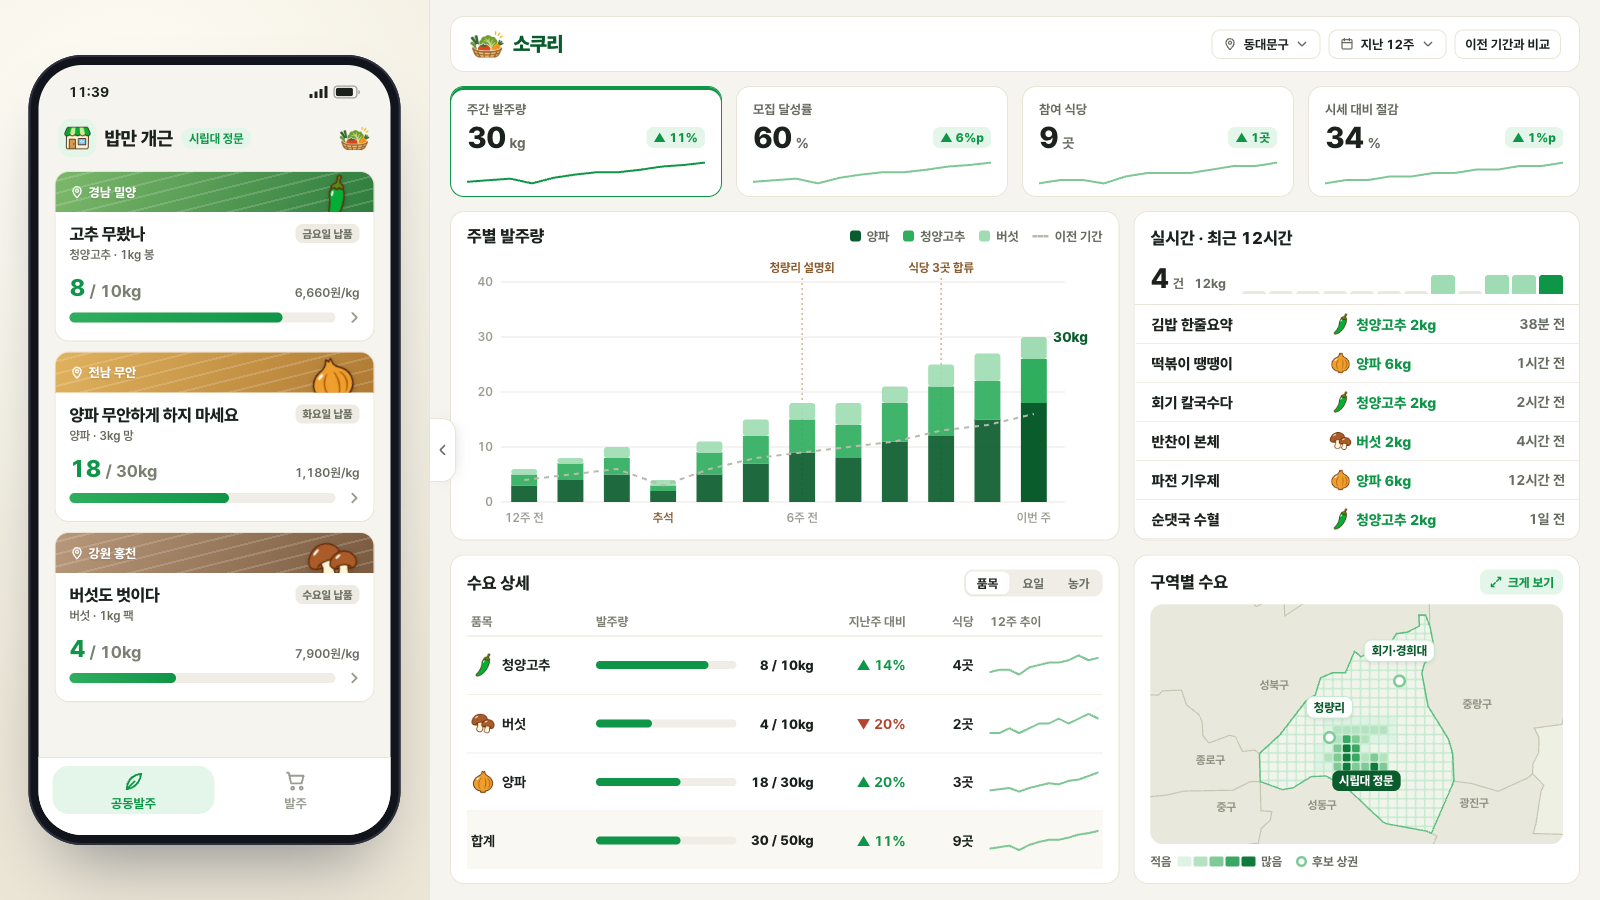
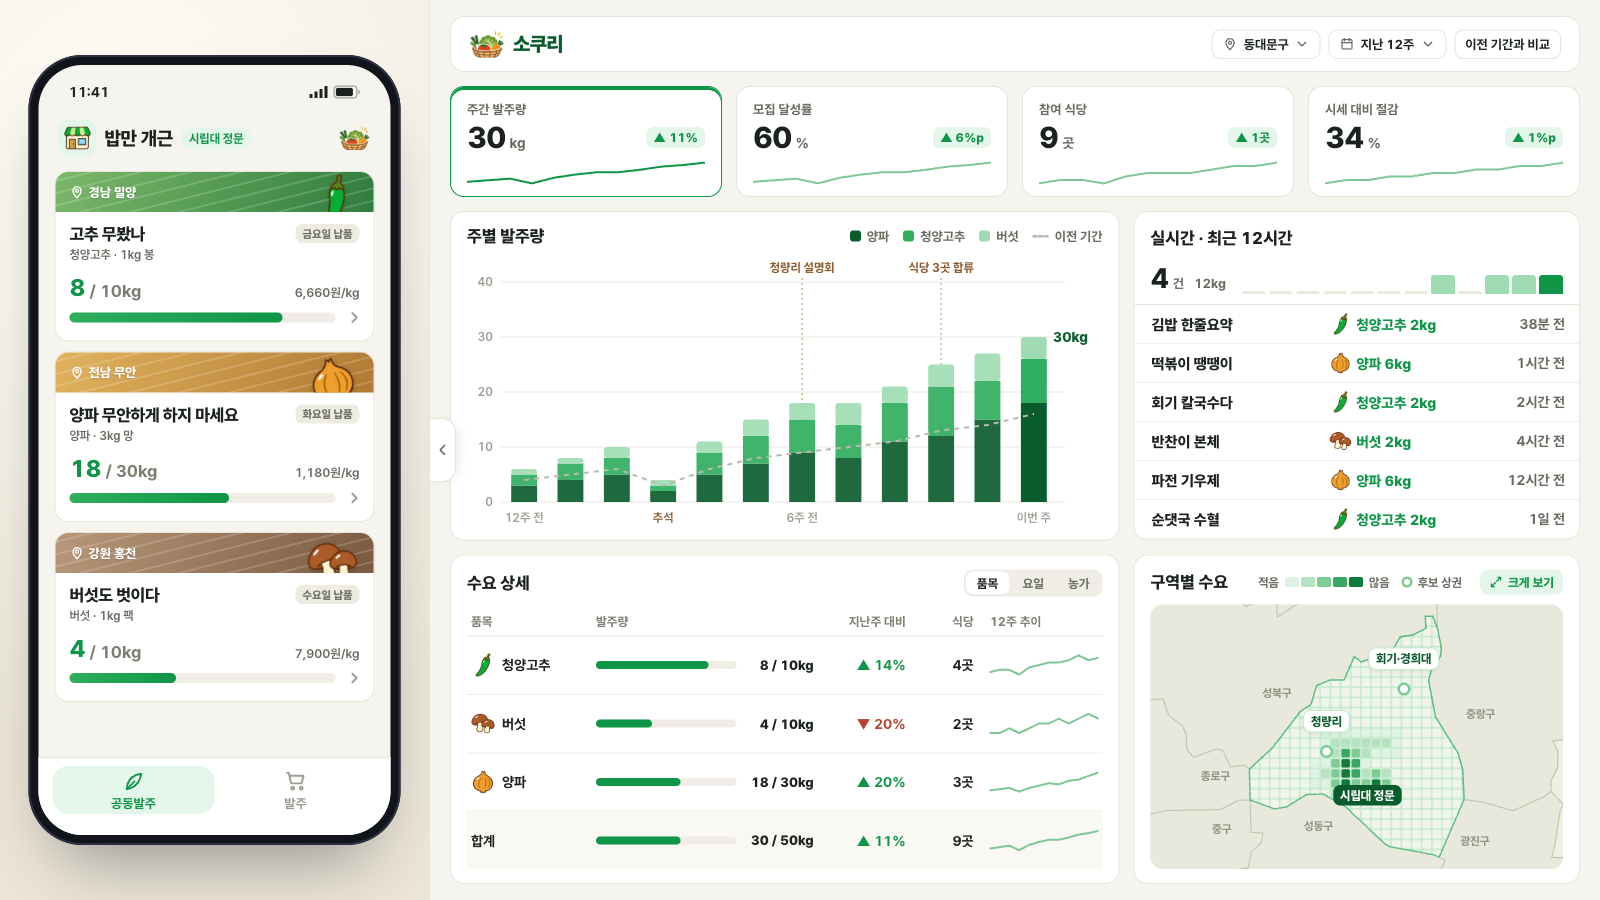
작은 지도 범례를 카드 머리(제목 옆)로 옮기고 Vercel 배포 설정 추가

Changed region(s): [[0.7188, 0.6844, 1.0, 0.9644], [0.7812, 0.6222, 0.9062, 0.6533]]

diff --git a/index.html b/index.html
@@ -228,7 +228,9 @@ body.loading .card::after{content:"";position:absolute;inset:14px;border-radius:
 .mx-open{display:inline-flex;align-items:center;gap:5px;font-size:12.5px;font-weight:800;color:var(--g);background:var(--g2);padding:5px 9px;border-radius:8px}
 .mx-open svg,.mx-close svg{width:14px;height:14px;fill:none;stroke:currentColor;stroke-width:2.2;stroke-linecap:round;stroke-linejoin:round}
 .mini-body{flex:1;min-height:0;display:flex}
-.mini-lg{display:flex;align-items:center;gap:14px;margin-top:10px;font-size:12.5px;font-weight:700;color:var(--sub)}
+.mini-lg{display:flex;align-items:center;gap:12px;margin-left:auto;margin-right:10px;font-size:12px;font-weight:700;color:var(--sub);white-space:nowrap}
+.minic .ch{gap:8px}
+.minic .ch h3{white-space:nowrap}
 .mini-lg .scale{margin:0}
 .mini-lg .k{display:inline-flex;align-items:center;gap:5px}
 .mini-lg .ring,.mring{width:11px;height:11px;border-radius:50%;border:2.5px solid #7fcb96;background:#fff;display:inline-block}
@@ -544,9 +546,8 @@ body.loading .card::after{content:"";position:absolute;inset:14px;border-radius:
     <div class="dt" id="dt"></div>
    </div>
    <div class="card minic" id="minic" role="button" tabindex="0" aria-label="상권 지도 크게 보기" style="--d:380ms">
-    <div class="ch"><h3>구역별 수요</h3><span class="mx-open"><svg viewBox="0 0 24 24"><path d="M15 4h5v5M9 20H4v-5M20 4l-7 7M4 20l7-7"/></svg>크게 보기</span></div>
+    <div class="ch"><h3>구역별 수요</h3><span class="mini-lg"><span class="scale">적음<i style="background:#dff3e4"></i><i style="background:#b5e3c1"></i><i style="background:#7fcb96"></i><i style="background:#3aa865"></i><i style="background:#0f7a3c"></i>많음</span><span class="k"><i class="ring"></i>후보 상권</span></span><span class="mx-open"><svg viewBox="0 0 24 24"><path d="M15 4h5v5M9 20H4v-5M20 4l-7 7M4 20l7-7"/></svg>크게 보기</span></div>
     <div class="mini-body"><div class="mini" id="mini"><svg id="miniSvg" aria-hidden="true"></svg></div></div>
-    <div class="mini-lg"><span class="scale">적음<i style="background:#dff3e4"></i><i style="background:#b5e3c1"></i><i style="background:#7fcb96"></i><i style="background:#3aa865"></i><i style="background:#0f7a3c"></i>많음</span><span class="k"><i class="ring"></i>후보 상권</span></div>
    </div>
    <section class="card mapx" id="mapx" aria-label="동대문구 상권 지도" inert>
     <div class="ch"><div class="map-heading"><h3>구역별 수요</h3><button type="button" class="map-all" id="mapAll" hidden>‹ 전체</button></div><span class="lg"><div class="seg" id="gseg"><button type="button" data-v="all" class="on">전체</button><button type="button" data-v="on">양파</button><button type="button" data-v="ch">청양고추</button><button type="button" data-v="mu">버섯</button></div><span class="scale">적음<i style="background:#dff3e4"></i><i style="background:#b5e3c1"></i><i style="background:#7fcb96"></i><i style="background:#3aa865"></i><i style="background:#0f7a3c"></i>많음</span><span class="k"><i class="c"></i>후보 상권</span><button type="button" class="mx-close" id="mapClose" title="Esc"><svg viewBox="0 0 24 24"><path d="M4 14h6v6M20 10h-6V4M14 10l7-7M3 21l7-7"/></svg>지도 접기</button></span></div>
